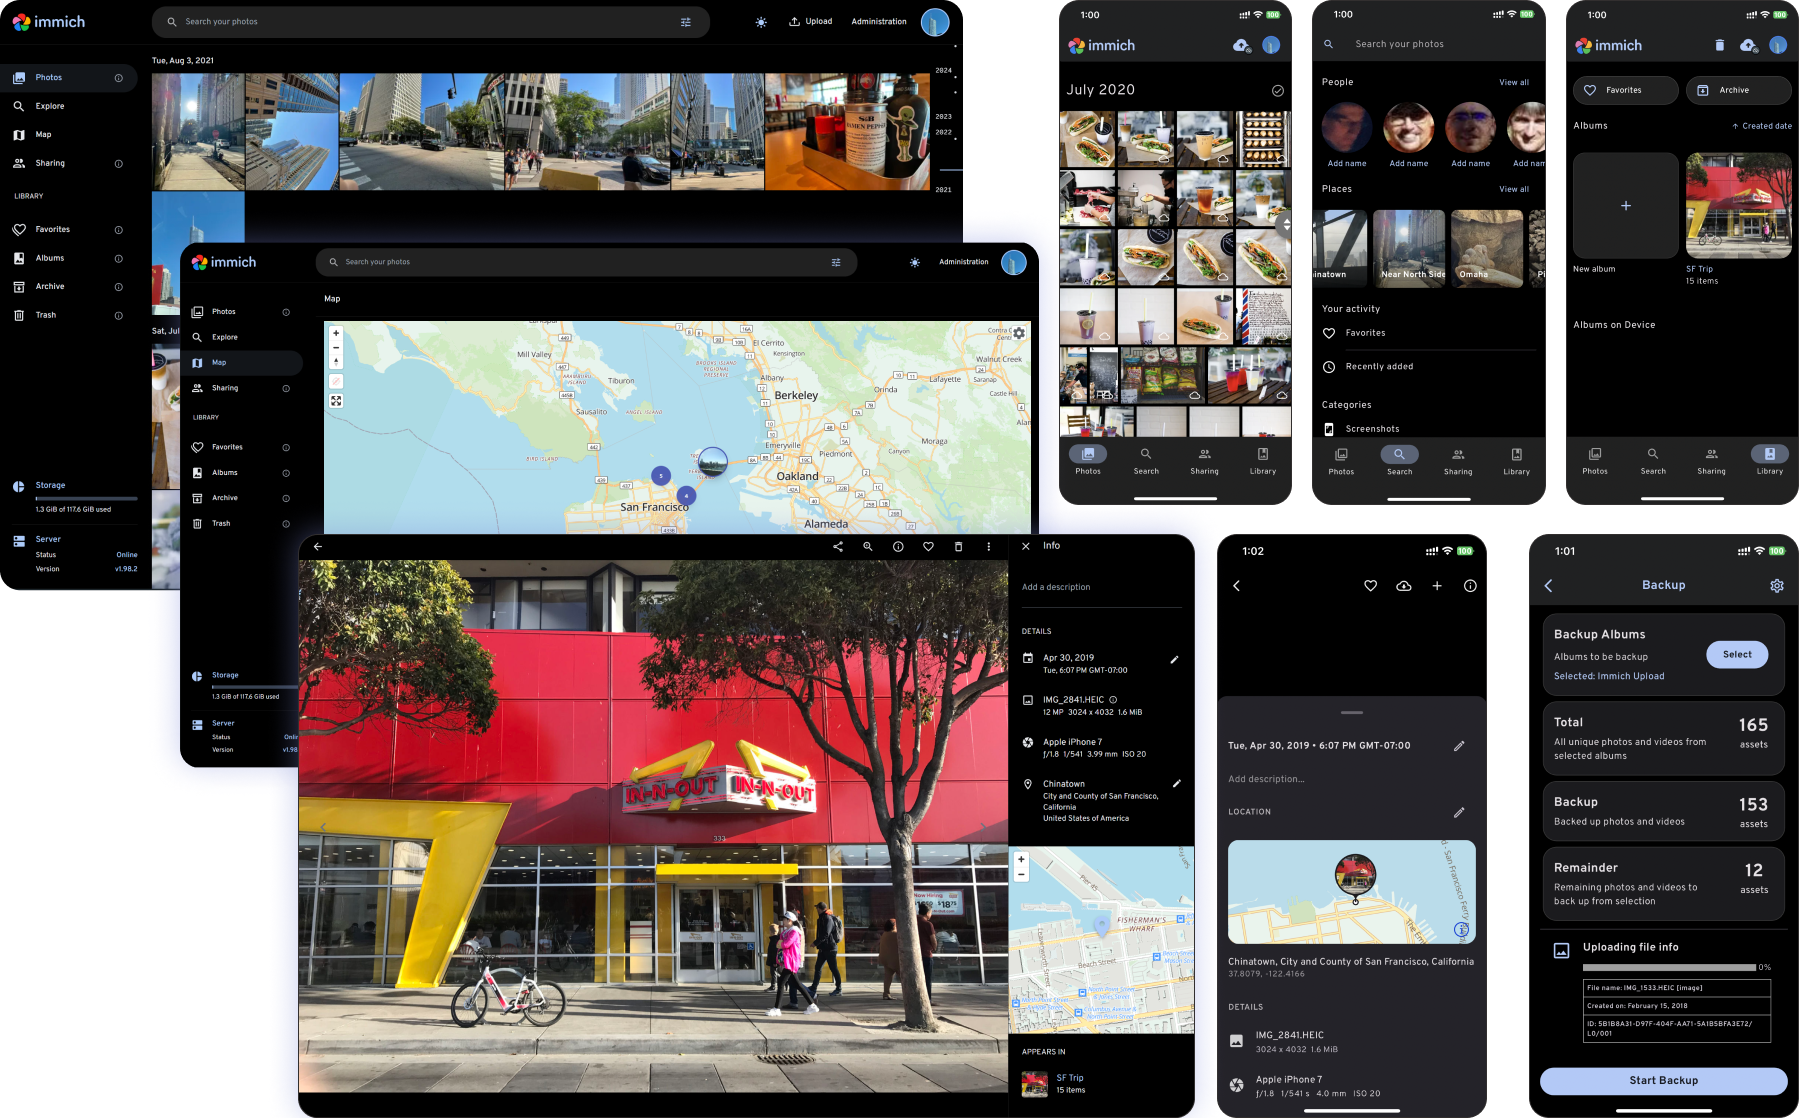
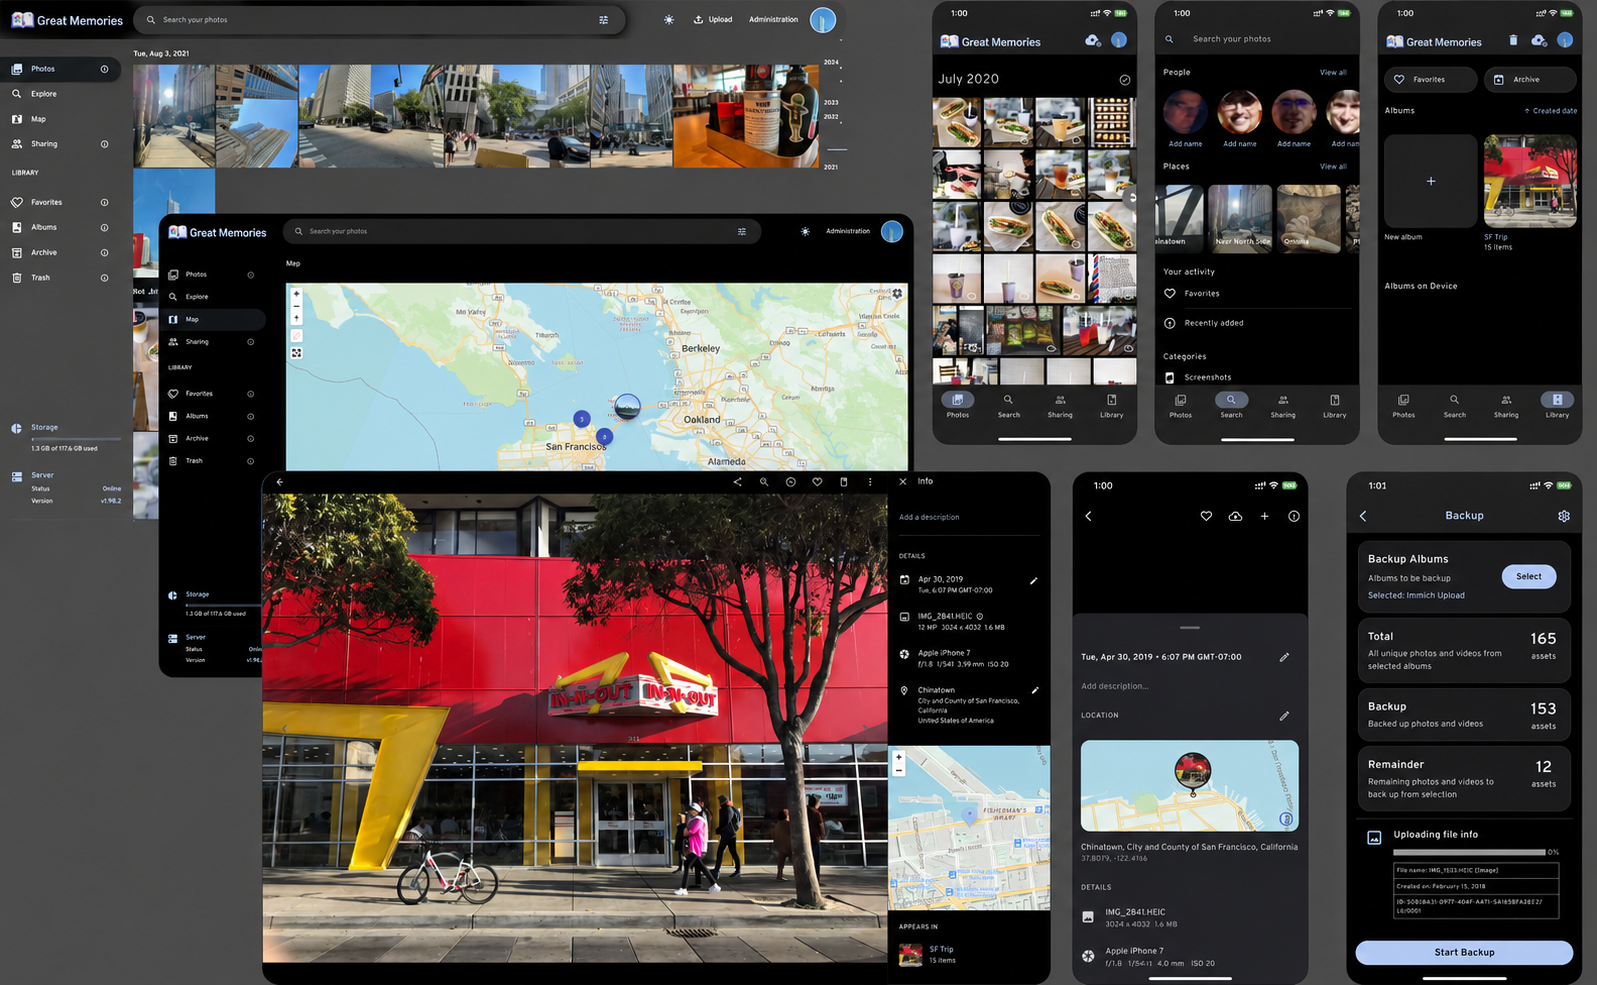
fix(ci): restrict CLI Docker build to amd64, document broader devtools blocker
The arm64 build for great-memories-cli fails with SIGILL under QEMU
(Node 24 + Alpine, inherited Dockerfile), so scope the job to amd64
until that's investigated separately. Also record that the
immich-app/devtools dependency (point 7) affects 19 workflows, not
just release/translations, confirmed by CI failures on this push.

diff --git a/REBRANDING_TODO.md b/REBRANDING_TODO.md
@@ -20,7 +20,7 @@ seguir, en vez de dejarlo así indefinidamente.
 | 4 | [Enlaces generados por el backend](#4-el-backend-genera-en-runtime-enlaces-a-immich) | 🔴 Crítico | Usuarios que ven "About", errores, o descargan el APK |
 | 5 | [Terraform de documentación](#5-infraestructura-terraform-de-docs-apunta-a-docsimmichapp) | 🔴 Crítico | Publicación de la documentación propia |
 | 6 | [Flujo de compra/licencia](#6-flujo-de-compralicencia-en-buyimmichapp) | 🔴 Crítico | Monetización del proyecto |
-| 7 | [GitHub Actions de `immich-app/devtools`](#7-cicd-depende-de-github-actions-de-immich-appdevtools) | 🟠 Operativo | Pipeline de CI/CD (build, release) |
+| 7 | [GitHub Actions de `immich-app/devtools`](#7-cicd-depende-de-github-actions-de-immich-appdevtools) | 🔴 Crítico (alcance real: 19 workflows, no solo release) | Casi todo el pipeline de CI (lint, tests, docs, OpenAPI, release) |
 | 8 | [Weblate compartido](#8-weblate-posiblemente-compartido-con-immich) | 🟠 Operativo | Flujo de traducciones |
 | 9 | [F-Droid vía FUTO](#9-f-droid-publica-con-identidad-de-immich) | 🟠 Operativo | Distribución en F-Droid |
 | 10 | [security.txt](#10-securitytxt-dirige-reportes-a-immich) | ✅ Resuelto | Reportes de vulnerabilidades |
@@ -166,14 +166,26 @@ necesita Docker Hub ni ninguna cuenta nueva:
 6. ✅ **Hecho (2026-08-21):** agregado un tercer job `cli` a `docker.yml`
    que construye y publica `packages/cli/Dockerfile` (que ya usaba el
    namespace `@great-memories/*`, listo desde antes) como
-   `ghcr.io/ludensproductions/great-memories-cli` (linux/amd64+arm64), en
-   push a `main` (tag `main`) y en cada release publicado (tag `latest` +
-   tag de versión). Actualizada la referencia en
-   `docs/docs/features/command-line-interface.md` (los dos `docker run` de
-   ejemplo) de `ghcr.io/immich-app/immich-cli:latest` a
-   `ghcr.io/ludensproductions/great-memories-cli:latest`. Pendiente: correr
-   el workflow al menos una vez y confirmar visibilidad pública del paquete
-   nuevo, igual que se hizo para server/machine-learning.
+   `ghcr.io/ludensproductions/great-memories-cli`, en push a `main` (tag
+   `main`) y en cada release publicado (tag `latest` + tag de versión).
+   Actualizada la referencia en `docs/docs/features/command-line-interface.md`
+   (los dos `docker run` de ejemplo) de `ghcr.io/immich-app/immich-cli:latest`
+   a `ghcr.io/ludensproductions/great-memories-cli:latest`.
+   ⚠ **Hallazgo nuevo al correr el workflow por primera vez:** el build
+   `linux/arm64` fallaba con exit code 132 (SIGILL) dentro de QEMU, en el
+   paso `corepack enable pnpm` sobre `node:24.1.0-alpine3.20` — un bug
+   conocido de Node reciente + QEMU en Alpine. El `Dockerfile` del CLI es el
+   original heredado de Immich (no se tocó ni en el Paso 1 ni en este paso),
+   así que el bug ya existía antes; solo nunca se había manifestado porque
+   ningún workflow en este repo lo construía. **Decisión tomada:** reducir
+   el job `cli` a solo `linux/amd64` por ahora (igual que hicieron
+   `server`/`machine-learning` sí soportan arm64 porque parten de
+   `ghcr.io/immich-app/base-server-dev`, una imagen base distinta sin este
+   problema). Pendiente: correr el workflow de nuevo con este fix, confirmar
+   que compila, y luego confirmar visibilidad pública del paquete nuevo
+   igual que se hizo para server/machine-learning. Soporte arm64 para el CLI
+   queda pendiente de investigar aparte (actualizar versión de Node/Alpine
+   en el Dockerfile, o usar runner nativo arm64 en vez de QEMU).
 7. ✅ **Hecho (2026-08-21):** `renovate.json` ya no depende de
    `"extends": ["local>immich-app/.github:renovate-config"]`. Se copiaron
    inline todas las reglas de esa config base (obtenida de
@@ -437,6 +449,26 @@ acciones compuestas alojadas en `immich-app/devtools`
 `success-check`) autenticadas con secretos `PUSH_O_MATIC_APP_CLIENT_ID` /
 `PUSH_O_MATIC_APP_KEY`, que corresponden a una GitHub App
 (`immich-push-o-matic`) de la organización Immich.
+
+⚠ **Alcance real más amplio de lo documentado (confirmado 2026-08-21):** un
+`grep` de `immich-app/devtools|create-workflow-token` sobre
+`.github/workflows/` encontró **19 workflows** afectados, no solo los 4
+listados arriba: `test.yml`, `sdk.yml`, `prepare-release.yml`,
+`docs-deploy.yml`, `docs-build.yml`, `cli.yml`, `check-openapi.yml`,
+`build-mobile.yml`, `weblate-lock.yml`, `preview-label.yaml`,
+`static_analysis.yml`, `pr-labeler.yml`, `pr-label-validation.yml`,
+`org-zizmor.yml`, `org-pr-require-conventional-commit.yml`,
+`fix-format.yml`, `docs-destroy.yml`, `codeql-analysis.yml`,
+`cache-cleanup.yml`. Esto se confirmó al ver fallar en CI (commit
+`421ac34`) los checks `Docs Build`, `ShellCheck` (dentro de
+`static_analysis.yml`) y `OpenAPI Clients` (dentro de `check-openapi.yml`)
+con el mismo error: *"The 'client-id' (or deprecated 'app-id') input must
+be set to a non-empty string"* — es decir, el paso `create-workflow-token`
+falla porque los secretos `PUSH_O_MATIC_APP_CLIENT_ID`/`KEY` no existen (o
+están vacíos) en este repo. Este es un bloqueador operativo más grande de
+lo que la severidad "🟠 Operativo" original sugiere: no son solo release y
+traducciones, son prácticamente todos los checks de CI del repo (lint,
+tests, docs, OpenAPI) los que dependen de esta GitHub App externa.
 
 **Por qué bloquea:** el pipeline de CI/CD de Great Memories no es autónomo —
 depende de una GitHub App y de actions mantenidas por la organización
